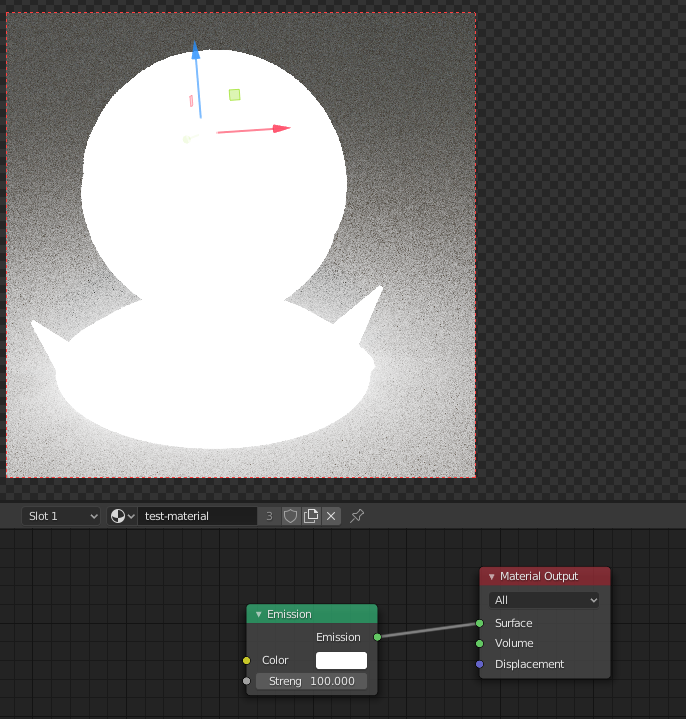
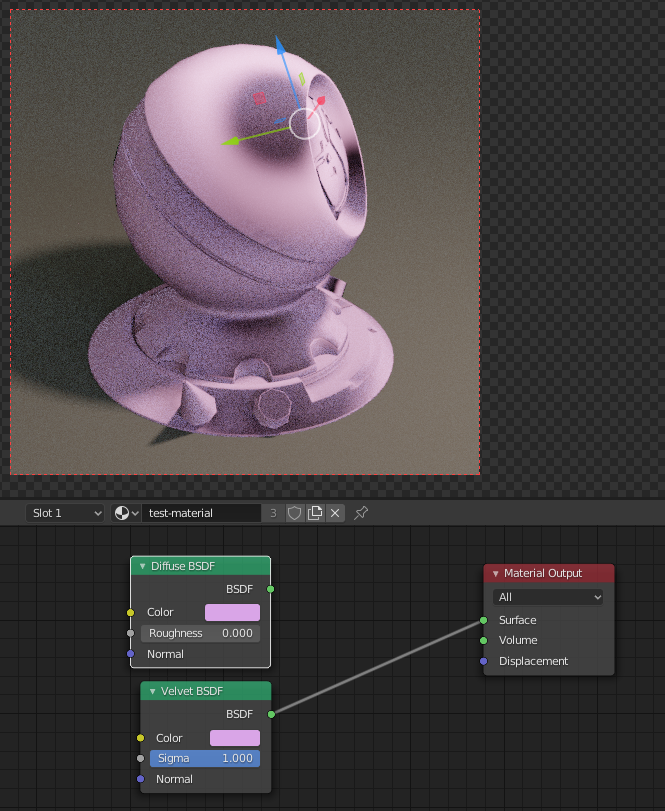
GitBook: [master] 39 pages and 8 assets modified

diff --git a/blender/materials/shading-from-observation.md b/blender/materials/shading-from-observation.md
@@ -13,9 +13,11 @@ When using mix shader, isolate one material at a time to make sure it's purpose 
 
 How much Glossy = How much saturation in the reflections.
 
-![](../../.gitbook/assets/image%20%2862%29.png)
+![](../../.gitbook/assets/image%20%2864%29.png)
 
 ### Rubber Tire Material
+
+Soft and malleable.
 
 There is a light spread across the material. So only a Diffuse material isn't a good idea.
 
@@ -23,7 +25,21 @@ Don't set Diffuse to pure black.
 
 Gives nice overall gradient of Diffuse with slightly sharper gradation.
 
-![](../../.gitbook/assets/image%20%2861%29.png)
+![](../../.gitbook/assets/image%20%2863%29.png)
 
+### Leather Jacket Material
 
+Did not change Diffuse value from previous example.
+
+![](../../.gitbook/assets/image%20%2858%29.png)
+
+### Jean Material
+
+Cloth has tiny little hairs everywhere.
+
+Velvet for cloth.
+
+Translucent for some light shining through the material.
+
+![](../../.gitbook/assets/image%20%2860%29.png)
 

diff --git a/blender/materials/the-emission-velvet-and-toon-shaders.md b/blender/materials/the-emission-velvet-and-toon-shaders.md
@@ -8,13 +8,13 @@ Darker the emission value - the blacker it is.
 
 Can be used in both the surface and volume socket.
 
-![](../../.gitbook/assets/image%20%2859%29.png)
+![](../../.gitbook/assets/image%20%2861%29.png)
 
 This would set density control.
 
 Used in holograms or fire effects.
 
-![](../../.gitbook/assets/image%20%2863%29.png)
+![](../../.gitbook/assets/image%20%2865%29.png)
 
 ### Velvet
 
@@ -24,11 +24,11 @@ Sides facing towards the viewer are darkened.
 
 Used for cloth and for tiny fuzz texture.
 
-![](../../.gitbook/assets/image%20%2858%29.png)
+![](../../.gitbook/assets/image%20%2859%29.png)
 
 Prefer not t use by itself. Can be used for a dual-tone affect.
 
-![](../../.gitbook/assets/image%20%2860%29.png)
+![](../../.gitbook/assets/image%20%2862%29.png)
 
 ### Toon
 
